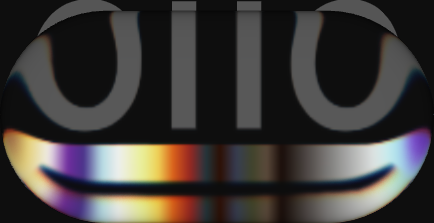
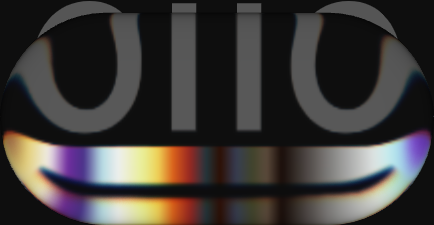
fix: crop the placeholder image

diff --git a/src/components/LiquidGlass/classes/LiquidGlass.js b/src/components/LiquidGlass/classes/LiquidGlass.js
@@ -144,12 +144,12 @@ export default class LiquidGlassMeshes extends Three {
     let logoOverlay = document.getElementById("hero-section-logo-overlay");
     this.references.logoOverlay = logoOverlay;
     let placeholderWidth = logo.offsetWidth + 64;
-    let placeholderHeight = logo.offsetHeight * 1.12 + 64;
+    let placeholderHeight = logo.offsetHeight + 80;
     logoOverlay.style.width = placeholderWidth + "px";
     logoOverlay.style.height = placeholderHeight + "px";
 
     let placeholder = logoOverlay.querySelector("img");
-    placeholder.style.transform = "translateY(41px)";
+    placeholder.style.transform = "translateY(40px)";
     // console.log(placeholder);
 
     this.references.logoOverlayBorder = document.getElementById(
@@ -522,7 +522,8 @@ export default class LiquidGlassMeshes extends Three {
         let rect = logo.getBoundingClientRect();
 
         capsule.width = logo.offsetWidth + capsule.offset;
-        capsule.height = logo.offsetHeight * 1.12 + capsule.offset;
+        capsule.height = logo.offsetHeight + capsule.offset + 16;
+
         capsule.borderRadius = Math.min(capsule.width, capsule.height);
 
         capsule.center.x =
